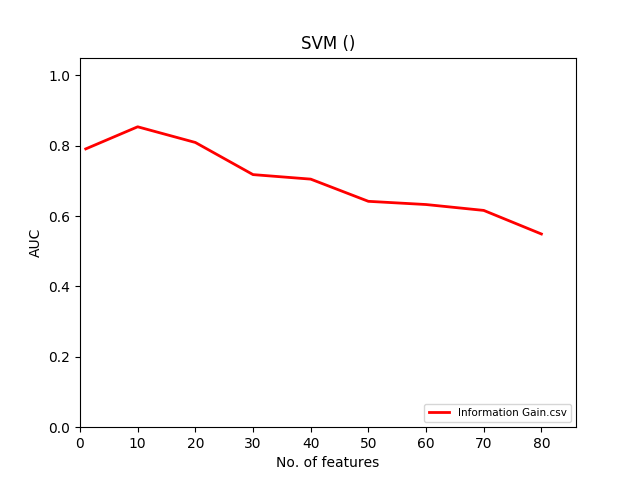
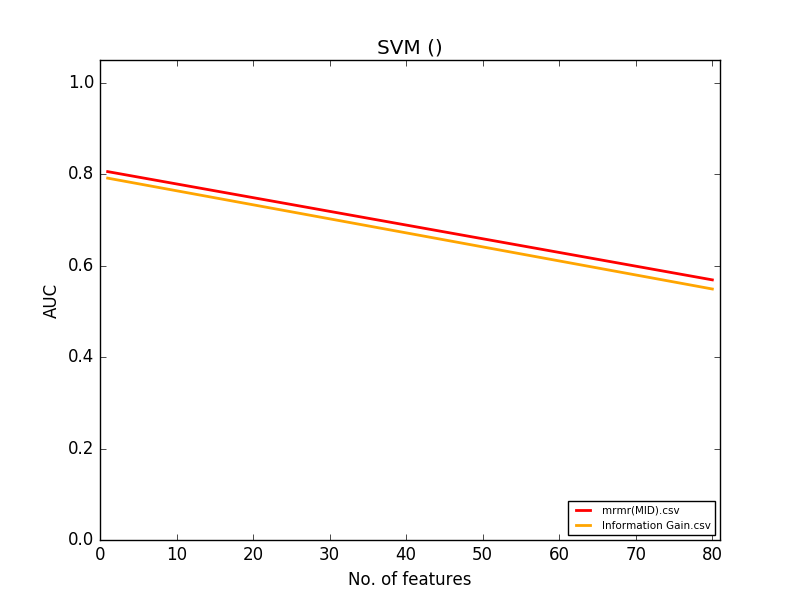
deleted:    Input(LeaveOneOut)/Relief.csv 	new file:   Input(LeaveOneOut)/mrmr(MID).csv 	modified:   LeaveOneOut.py 	modified:   LeaveOneOutConfig.txt 	modified:   Output(LeaveOneOut)/SVM ().png 	deleted:    Output(LeaveOneOut)/SVM (ubbalanced).png 	modified:   Output(LeaveOneOut)/SVM TOP 1 Features
Changes not staged for commit:
	deleted:    home_lu_webProject_Input
	deleted:    home_lu_webProject_InputLeaveOneOut
	deleted:    run.py.save
	deleted:    testrun.py.save

diff --git a/preset.py b/preset.py
@@ -44,15 +44,9 @@ def login():
         settings.set('SectionOne', 'plot lengend size', str(legendsize)) 
         settings.set('SectionOne', 'plot line width', str(plotlinewidth)) 
         settings.set('SectionOne', 'dataset type name', str(legendtitle))         
-        call(["python", "LeaveOneOut.py"])
-        
-        
-        
-        
-        
         with open('LeaveOneOutConfig.txt', 'wb') as configfile:
             settings.write(configfile)        
-        
+        call(["python2", "LeaveOneOut.py"])
         return redirect(url_for('get_image'))
         return redirect(url_for('success',name =testoutput ))
 if __name__ == '__main__':

diff --git a/LeaveOneOut.py b/LeaveOneOut.py
@@ -32,7 +32,7 @@ AverageRead=settings.get('SectionOne','Average the result')
 NumberOfEstimators=settings.get('SectionOne','Number of Estimators')
 
 Threshold=settings.get('SectionOne','Threshold')
-print (Threshold)
+#print (Threshold)
 FeastureSelectionInterVal=int(settings.get('SectionOne','Feature Selection Interval'))
 
 showResultConfig=settings.get('SectionOne','Show results in Console')
@@ -194,7 +194,7 @@ while(p<=featureRange):
         selectList.append(p)
    
    
-print selectList    
+#print selectList    
 for i in selectList:    
     print ("top features chosen "+str(i))
 #    process(my_data,"Relief",i)
